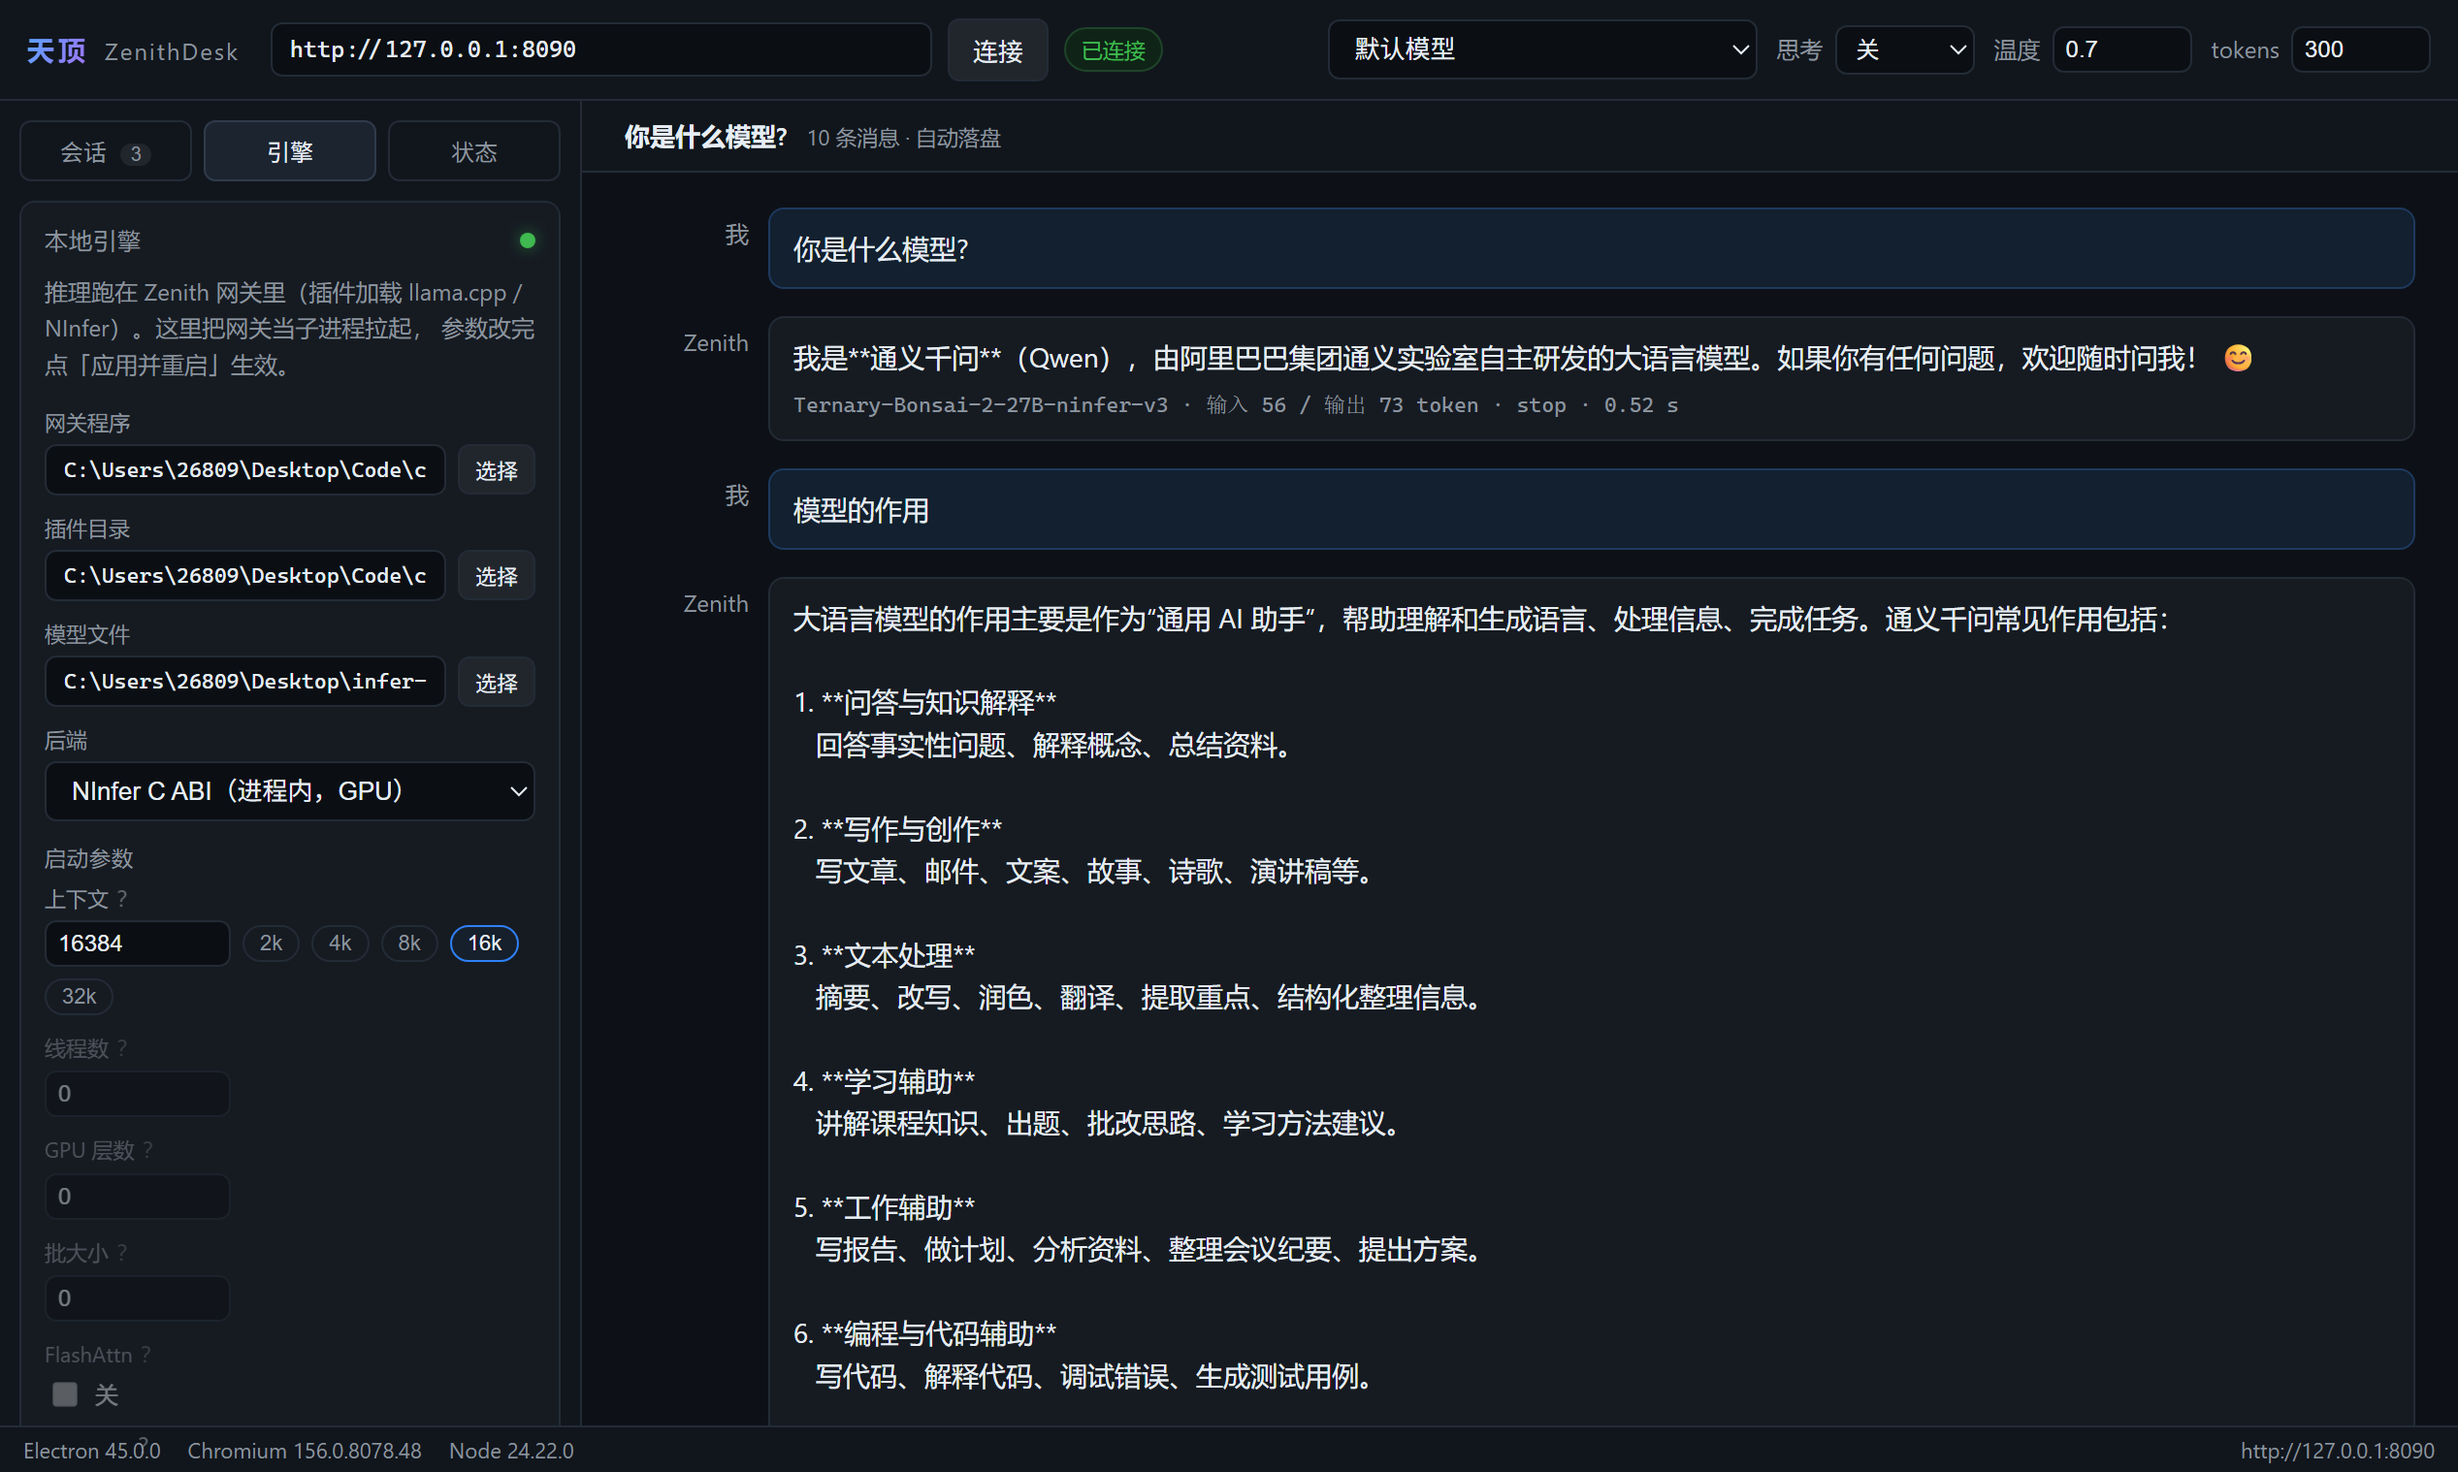
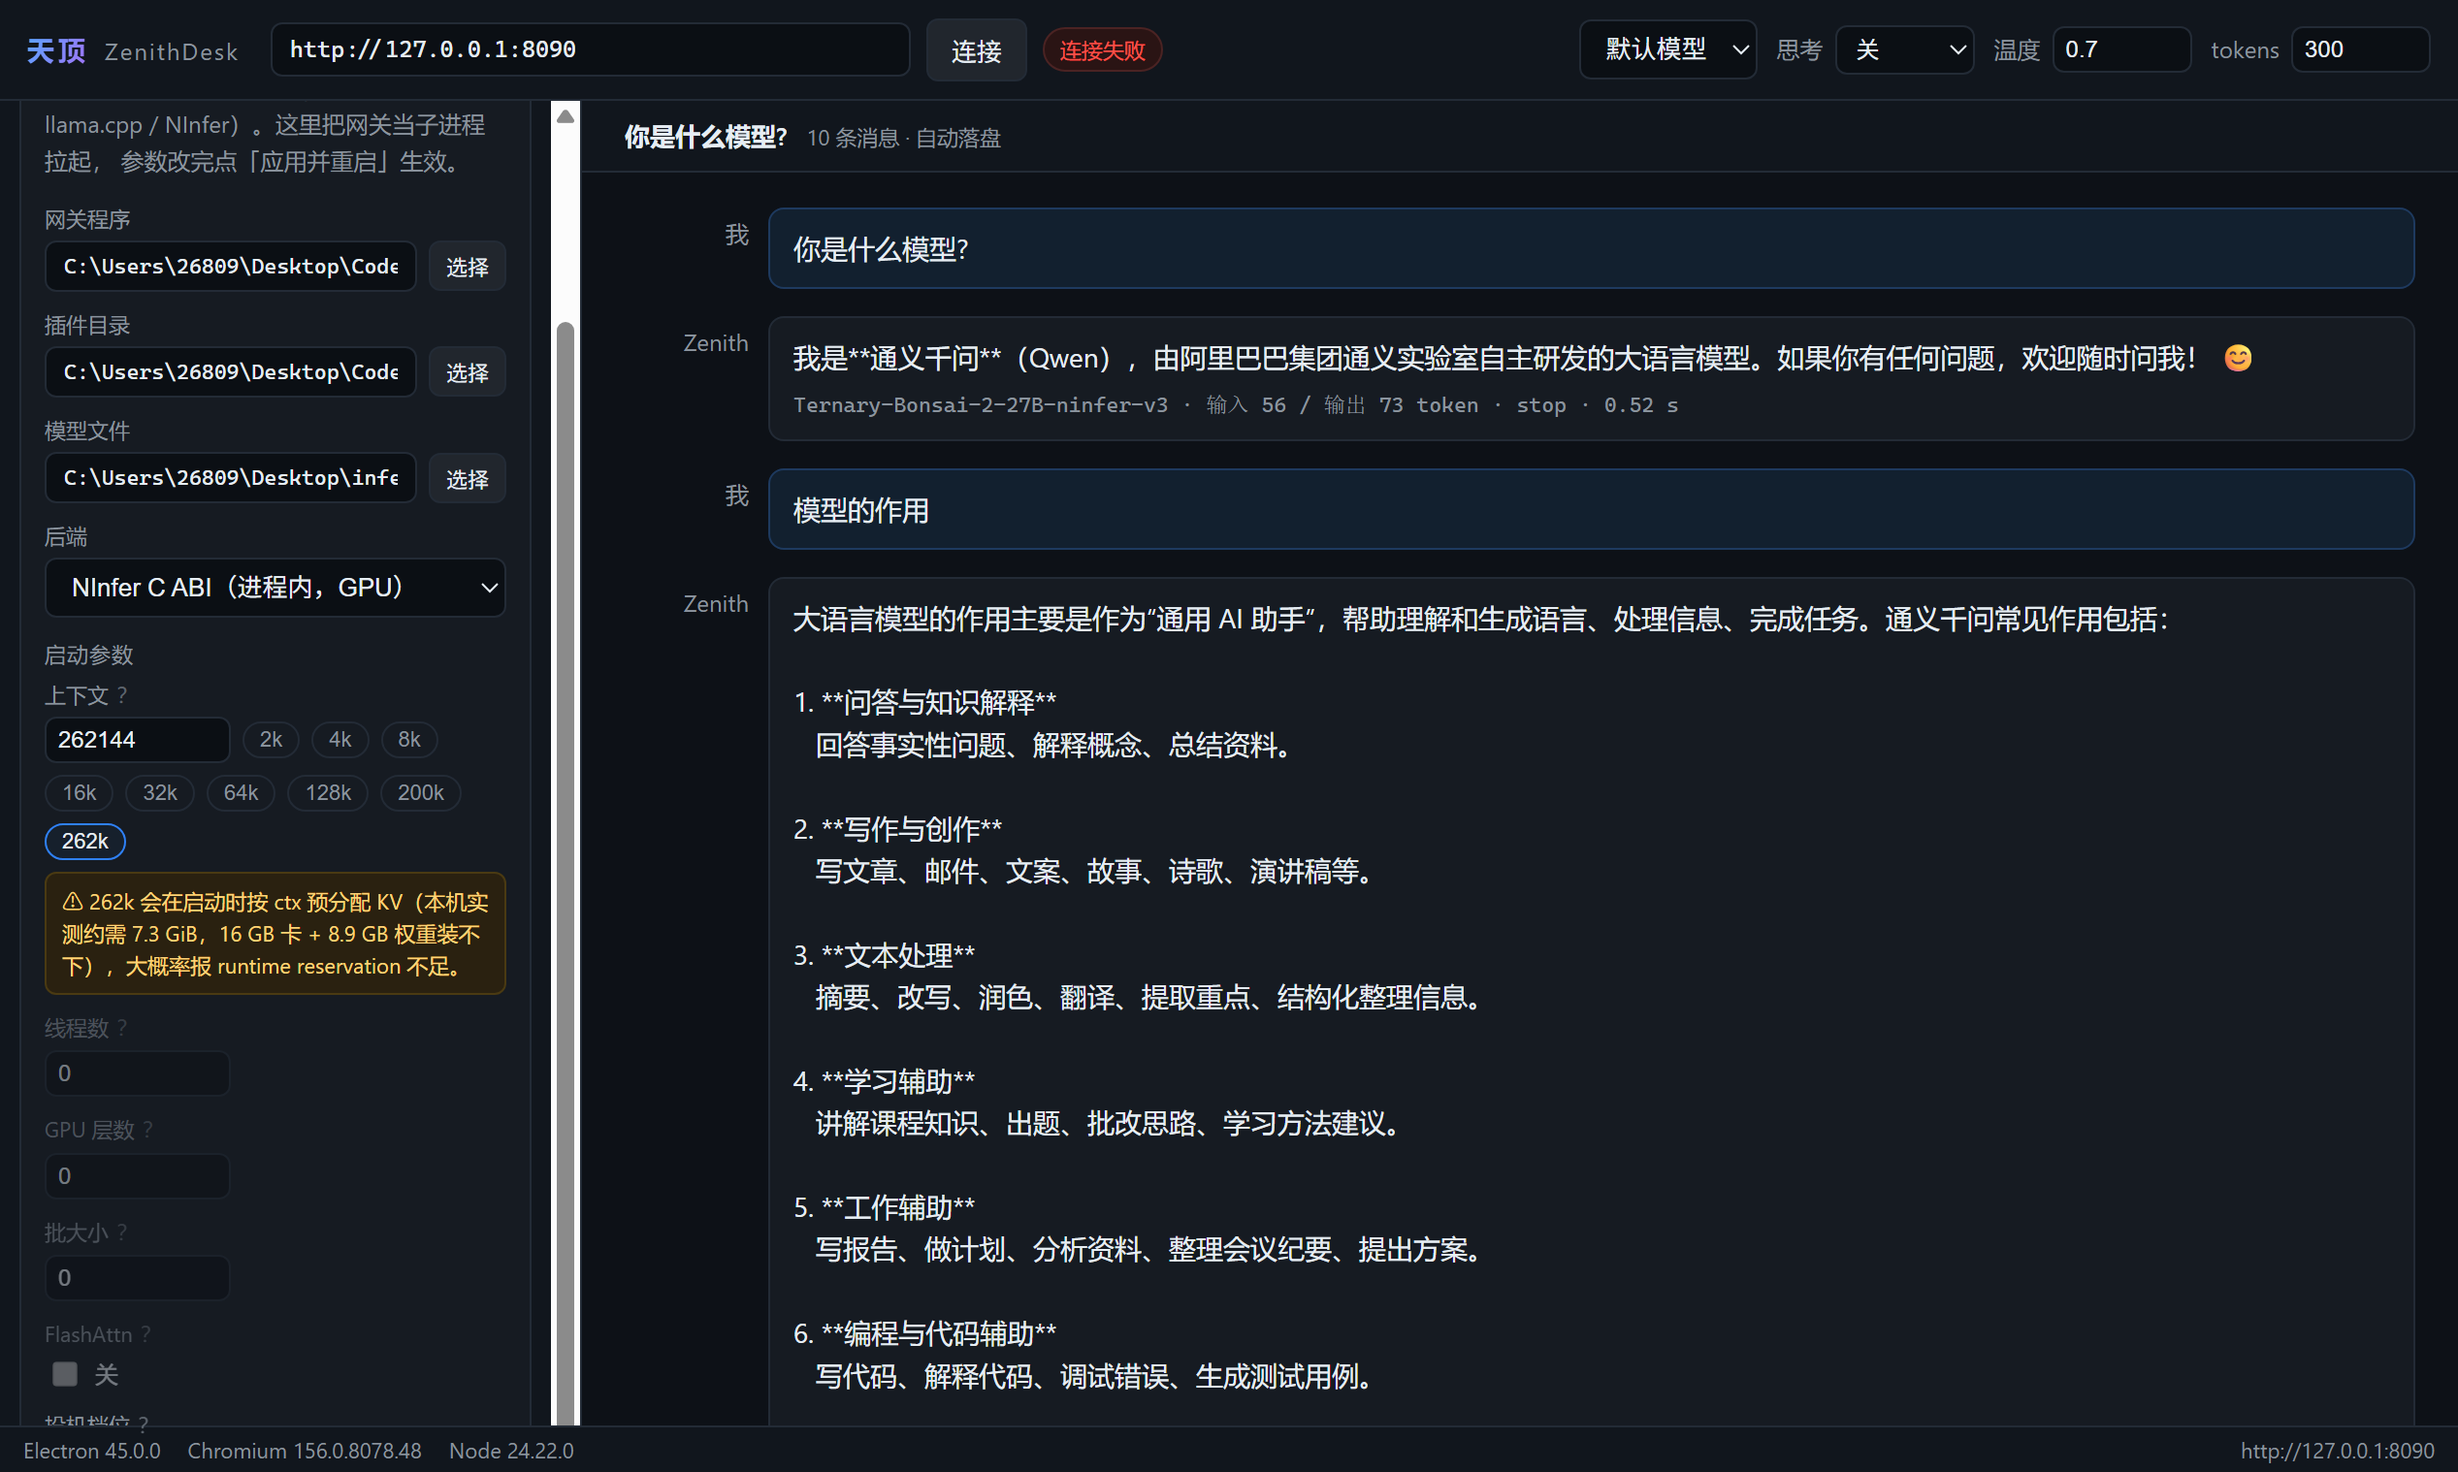
feat(engine): 上下文预设增加 262k（并给出显存实测提示）
- 预设改为带标签：2k/4k/8k/16k/32k/64k/128k/200k/262k
- NInfer 后端下，ctx ≥128k 显示黄条提示；≥262k 明确说明"按 ctx 预分配 KV，
  本机约需 7.3 GiB，16 GB 卡装不下"
- 提示文字随 ctx 跨档变化（不是死文案），切到 llama 后端不显示

实测（RTX 5070 Ti 16 GB / Ternary-Bonsai-2-27B 8.9 GB）：
  128k / 192k / 200k 可启动（200k 时显存 15.9 GB）
  224k 起报 "runtime reservation requires … but only … available"
  262k 需 7.35 GiB KV，可用 6.52 GiB → 必然失败

diff --git a/src/components/EnginePanel.jsx b/src/components/EnginePanel.jsx
@@ -23,7 +23,30 @@ const SPECS = [
   { v: 3, t: 'DFlash2（最快）' },
 ]
 
-const CTX_PRESETS = [2048, 4096, 8192, 16384, 32768]
+const CTX_PRESETS = [
+  { v: 2048, t: '2k' },
+  { v: 4096, t: '4k' },
+  { v: 8192, t: '8k' },
+  { v: 16384, t: '16k' },
+  { v: 32768, t: '32k' },
+  { v: 65536, t: '64k' },
+  { v: 131072, t: '128k' },
+  { v: 204800, t: '200k' },
+  { v: 262144, t: '262k' },
+]
+
+/** 超长上下文的风险提示（NInfer 按 ctx 预分配 KV） */
+function ctxHint(ctx, caps) {
+  const n = Number(ctx) || 0
+  if (!caps.ninfer) return ''
+  if (n >= 262144) {
+    return '262k 会在启动时按 ctx 预分配 KV（本机实测约需 7.3 GiB，16 GB 卡 + 8.9 GB 权重装不下），大概率报 runtime reservation 不足。'
+  }
+  if (n >= 131072) {
+    return '超过 128k 后 KV 预分配很吃显存：本机实测 200k 可启动、224k 起就报显存不足。'
+  }
+  return ''
+}
 
 /** 返回该后端下哪些参数组可用 */
 function capsFor(backend, modelPath) {
@@ -238,17 +261,22 @@ export default function EnginePanel({ settings, onSave, onStarted }) {
       <Field label="上下文" error={errs.ctx} hint="最大上下文长度，同时决定 NInfer 的 KV 容量">
         <div className="param-row">
           <Num value={settings.ctx} onChange={(v) => onSave({ ctx: v })} min={512} max={262144} step={512} />
-          {CTX_PRESETS.map((c) => (
+          {CTX_PRESETS.map((p) => (
             <button
-              key={c}
-              className={`chip ${Number(settings.ctx) === c ? 'chip-on' : ''}`}
-              onClick={() => onSave({ ctx: c })}
+              key={p.v}
+              className={`chip ${Number(settings.ctx) === p.v ? 'chip-on' : ''}`}
+              title={`${p.v} tokens${p.t === '262k' ? '（= 256 Ki，本机实测超出显存）' : ''}`}
+              onClick={() => onSave({ ctx: p.v })}
             >
-              {c >= 1024 ? `${c / 1024}k` : c}
+              {p.t}
             </button>
           ))}
         </div>
       </Field>
+
+      {ctxHint(settings.ctx, caps) && (
+        <div className="param-warn">⚠ {ctxHint(settings.ctx, caps)}</div>
+      )}
 
       <Field
         label="线程数"

diff --git a/src/styles.css b/src/styles.css
@@ -418,3 +418,14 @@ body {
   user-select: text;
 }
 .dirty-tip { font-size: 11px; color: var(--warn); }
+
+.param-warn {
+  margin: -2px 0 8px;
+  padding: 6px 8px;
+  font-size: 11px;
+  line-height: 1.5;
+  color: #ffd479;
+  background: #2a2110;
+  border: 1px solid #4a3a12;
+  border-radius: 6px;
+}

diff --git a/README.md b/README.md
@@ -92,7 +92,7 @@ npm start            # = vite build + electron .
 
 | 参数 | 控件 | 取值 | 说明 |
 |---|---|---|---|
-| 上下文 | 数字 + 2k/4k/8k/16k/32k 预设 | 512 – 262144 | `--ctx`，同时决定 NInfer 的 KV 容量 |
+| 上下文 | 数字 + 2k/4k/8k/16k/32k/64k/128k/200k/**262k** 预设 | 512 – 262144 | `--ctx`，同时决定 NInfer 的 KV 容量 |
 | 线程数 | 数字 | 0 – 128（0=自动） | `--threads`，**仅 llama.cpp** |
 | GPU 层数 | 数字 | 0 – 999 | `--gpu-layers`，**仅 llama.cpp** |
 | 批大小 | 数字 | 0 或 32 – 4096 | `--batch`，**仅 llama.cpp** |
@@ -106,6 +106,13 @@ npm start            # = vite build + electron .
 | 附加参数 | 文本框 | 任意 | 高级逃生口，原样透传 |
 
 前端会先本地校验（如预填分块不是 128 倍数、并发越界），不合法时红框提示且**不会**启动进程。
+
+> **超长上下文的现实约束**（实测：RTX 5070 Ti 16 GB + Ternary-Bonsai-2-27B 8.9 GB 权重）：
+> NInfer 会**按 ctx 预分配 KV**，同一张卡上
+> `128k / 192k / 200k` 可以启动，`224k` 起报显存不足，
+> `262k` 需要约 **7.3 GiB** KV（可用仅 6.5 GiB）——按钮保留，但点了会在启动时报
+> `runtime reservation requires … bytes, but only … are available`。
+> 换更大显存的卡或更小的权重就能用上。
 
 ### 启动报 `0xC0000135` / 闪退
 
